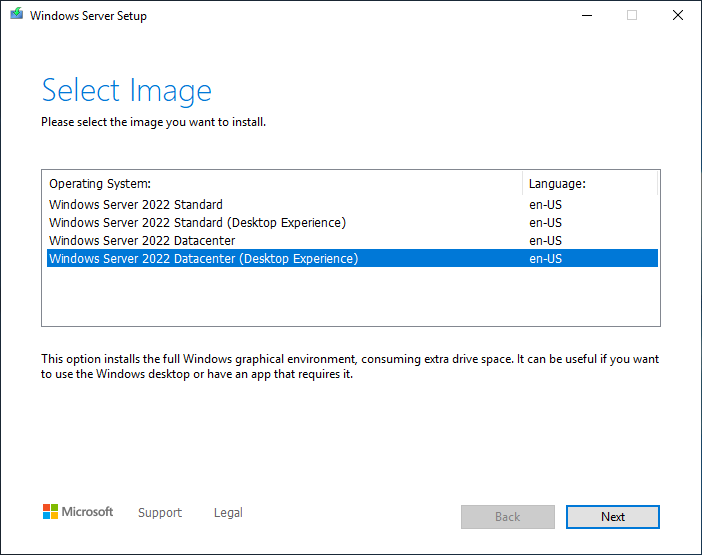
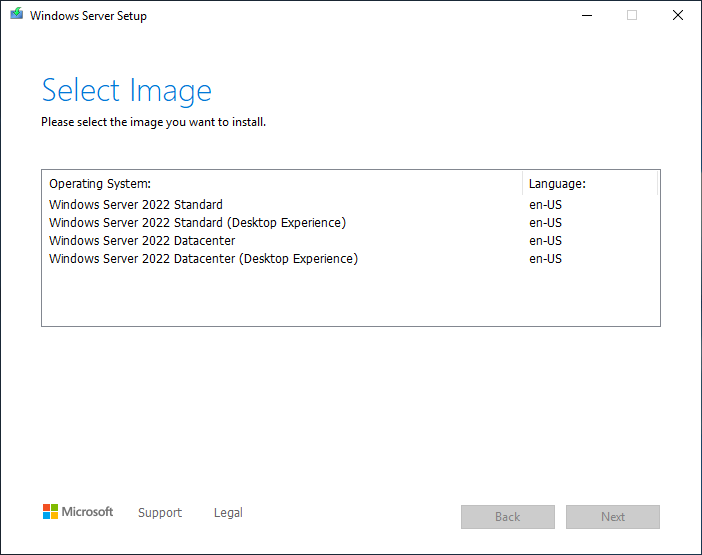
Updated the get started upgrade article set
Updated:
 - perform-in-place-upgrade.md update with version agnostic text and
   review feedback
 - upgrade-overview.md updated with version agnostic text and new table
 - get-started/toc.yml to remove legacy articles
 - Screenshot updated
 - index.yml updated the Upgrade landing card to reflect changes

Changed region(s): [[0.0598, 0.4288, 0.9573, 0.4901], [0.0598, 0.6432, 0.9573, 0.7045], [0.8077, 0.8883, 0.9274, 0.9802]]

diff --git a/WindowsServerDocs/get-started/upgrade-overview.md b/WindowsServerDocs/get-started/upgrade-overview.md
@@ -4,7 +4,7 @@ description: General Windows Server upgrade information, along with what to thin
 ms.topic: how-to
 author: RobHindman
 ms.author: robhind
-ms.date: 09/10/2019
+ms.date: 05/24/2022
 ---
 
 # Overview of Windows Server upgrades
@@ -14,7 +14,7 @@ The process of upgrading to a newer version of Windows Server can vary greatly, 
 - **Upgrade.** Also known as an "in-place upgrade". You move from an older version of the operating system to a newer version, while staying on the same physical hardware. **This is the method we will be covering in this section.**
 
     > [!Important]
-    > In-place upgrades might also be supported by public or private cloud companies; however, you must check with your cloud provider for the details. Additionally, you'll be unable to perform an in-place upgrade on any Windows Server configured to **Boot from VHD**. An In-Place Upgrade from Windows Storage Server Editions to Windows Server 2019 is not supported. You can perform either a **Migration** or **Installation** instead.
+    > In-place upgrades might also be supported by public or private cloud companies; however, you must check with your cloud provider for the details. Additionally, you'll be unable to perform an in-place upgrade on any Windows Server configured to **Boot from VHD**. An in-place upgrade from Windows Storage Server Editions is not supported. You can perform either a **Migration** or **Installation** instead.
 
 - **Installation.** Also known as a "clean installation". You move from an older version of the operating system to a newer version, deleting the older operating system.
 
@@ -22,16 +22,33 @@ The process of upgrading to a newer version of Windows Server can vary greatly, 
 
 - **Cluster OS Rolling Upgrade.** You upgrade the operating system of your cluster nodes without stopping the Hyper-V or the Scale-Out File Server workloads. This feature allows you to avoid downtime which could impact Service Level Agreements. For more information, see [Cluster operating system rolling upgrade](../failover-clustering/cluster-operating-system-rolling-upgrade.md)
 
-- **License conversion.** Convert a particular edition of the release to another edition of the same release in a single step with a simple command and the appropriate license key. We call this "license conversion". For example, if your server is running Windows Server 2016 Standard, you can convert it to Windows Server 2016 Datacenter.
+- **License conversion.** Convert a particular edition of the release to another edition of the same release in a single step with a simple command and the appropriate license key. We call this "license conversion". For example, if your server is running Standard edition, you can convert it to Datacenter.
 
 ## Which version of Windows Server should I upgrade to?
 
-We recommend upgrading to the latest version of Windows Server: Windows Server 2019. Running the latest version of Windows Server allows you to use the latest features – including the latest security features – and delivers the best performance.
+We recommend upgrading to the latest version of Windows Server. Running the latest version of Windows Server allows you to use the latest features – including the latest security features – and delivers the best performance.
 
-However, we realize that's not always possible. You can use the following diagram to figure out which Windows Server version you can upgrade to, based on the version you're currently on:
+> [!IMPORTANT]
+> You can upgrade to a newer version of Windows Server by up to two versions at a time. For example, Windows Server 2016 can be upgraded to Windows Server 2019 or Windows Server 2022.
 
-![Available in-place upgrade paths](media/upgrade-paths.png)
+In this table you can see the supported upgrade paths, based on the version you're currently on.
 
-Windows Server can typically be upgraded through at least one, and sometimes even two, versions. For example, Windows Server 2012 R2 and Windows Server 2016 can both be upgraded in-place to Windows Server 2019.
+| Upgrade from / to        | Windows   Server 2008 R2 | Windows   Server 2012 | Windows   Server 2012 R2 | Windows   Server 2016 | Windows   Server 2019 | Windows   Server 2022 |
+|--------------------------|--------------------------|-----------------------|--------------------------|-----------------------|-----------------------|-----------------------|
+| Windows   Server 2008    | Yes                      | Yes                   | -                        | -                     | -                     | -                     |
+| Windows   Server 2008 R2 | -                        | Yes                   | Yes                      | -                     | -                     | -                     |
+| Windows   Server 2012    | -                        | -                     | Yes                      | Yes                   | -                     | -                     |
+| Windows   Server 2012 R2 | -                        | -                     | -                        | Yes                   | Yes                   | -                     |
+| Windows   Server 2016    | -                        | -                     | -                        | -                     | Yes                   | Yes                   |
+| Windows   Server 2019    | -                        | -                     | -                        | -                     | -                     | Yes                   |
 
 You can also upgrade from an evaluation version of the operating system to a retail version, from an older retail version to a newer version, or, in some cases, from a volume-licensed edition of the operating system to an ordinary retail edition. For more information about upgrade options other than in-place upgrade, see [Upgrade and conversion options for Windows Server](../get-started/supported-upgrade-paths.md).
+
+## Next steps
+
+Now that you've ready to upgrade Windows Server, here are some articles that might help you get started:
+
+- [Install, upgrade, or migrate to Windows Server](install-upgrade-migrate.md)
+- [Upgrade and migrate roles and features in Windows Server](upgrade-migrate-roles-features.md)
+- [Upgrade and conversion options for Windows Server](upgrade-conversion-options.md)
+- [Perform an in-place upgrade of Windows Server](perform-in-place-upgrade.md)

diff --git a/WindowsServerDocs/get-started/perform-in-place-upgrade.md b/WindowsServerDocs/get-started/perform-in-place-upgrade.md
@@ -38,15 +38,20 @@ To collect your info:
 
 1. Next, enter **ipconfig /all** into the command prompt, then copy and paste the resulting configuration information into the same location you used in step 2.
 
-1. Open the Registry Editor, go to the **HKEY_LOCAL_MACHINE\SOFTWARE\Microsoft\Windows NT\CurrentVersion** key, and then copy and paste the Windows Server **BuildLabEx** and **EditionID** values into the same location you used in steps 2 and 3.
+1. Open an elevated PowerShell prompt, run the following command, and then copy and paste the **WindowsBuildLabEx** and **WindowsEditionID** values into the same location you used in steps 2 and 3.
 
-After you've collected all of your Windows Server-related information, we highly recommend that you backup your server operating system, apps, and virtual machines. You must also **Shut down**, **Quick migrate**, or **Live migrate** any virtual machines currently running on the server. You can't have any virtual machines running during the in-place upgrade.
+   ```powershell
+   Get-ComputerInfo -Property "WindowsProductName"
+   ```
+
+> [!TIP]
+> Get-ComputerInfo requires PowerShell 5.1 or later. If your Windows Server version doesn't include Powershell you can find this information in the registry. Open Registry Editor, go to the  **HKEY_LOCAL_MACHINE\SOFTWARE\Microsoft\Windows NT\CurrentVersion** key, and then copy and paste the Windows Server **BuildLabEx** and **EditionID** values.
+
+After you've collected all of your Windows Server-related information, we highly recommend that you backup your server operating system, apps, and virtual machines. You must also shut down, quick migrate, or live migrate any virtual machines currently running on the server. You can't have any virtual machines running during the in-place upgrade.
 
 ## Perform the upgrade
 
 To perform the in-place upgrade:
-
-1. Open the Registry Editor, go to the **HKEY_LOCAL_MACHINE\SOFTWARE\Microsoft\Windows NT\CurrentVersion** key, and confirm the **ProductName** is Windows Server 2016 or later.
 
 1. Using File Explorer, navigate to the Windows Server Setup media. Then select **setup.exe**. For example, if you are using removal media this might be D:\setup.exe.
 
@@ -71,7 +76,7 @@ To perform the in-place upgrade:
 
     ![Screen to choose which Windows Server edition to install](media/upgrade/select-os-edition.png)
 
-1. Select **Accept** to agree to the terms of your licensing agreement. The agreement may vary based on your distribution channel (such as a Commercial Licensing program, Retail, OEM, and so on.).
+1. To upgrade, you must accept the applicable notices and license terms by selecting **Accept**. The agreement may vary based on your distribution channel (such as a Commercial Licensing program, Retail, OEM, and so on.).
 
     ![Screen to accept your license agreement](media/upgrade/license-terms.png)
 
@@ -93,7 +98,11 @@ After the upgrade to Windows Server is done, you must make sure the upgrade was 
 
 To make sure your upgrade was successful:
 
-1. Open the Registry Editor, then go to the **HKEY_LOCAL_MACHINE\SOFTWARE\Microsoft\Windows NT\CurrentVersion** key and view the **ProductName** value. Verify the version and edition match the media and values you selected during setup. For example, if you installed Windows Server 2022 Datacenter, you should see "Windows Server 2022 Datacenter" in the value.
+1. Open an elevated PowerShell prompt, run the following command to verify the version and edition matches the media and values you selected during setup. For example, if you installed Windows Server 2022 Datacenter, you should see "Windows Server 2022 Datacenter" in the output.
+
+   ```powershell
+   Get-ComputerInfo -Property "WindowsProductName"
+   ```
 
 1. Make sure all of your applications are running and that your client connections to the applications are successful.
 
@@ -101,7 +110,7 @@ If your machine isn't working as expected after the upgrade, copy and zip the **
 
 ## Next steps
 
-Now that you've installed Windows Server 2022, here are some articles that might help you as you use the new version:
+Now that you've upgraded Windows Server, here are some articles that might help you as you use the new version:
 
 - [Install or Uninstall Roles, Role Services, or Features](../administration/server-manager/install-or-uninstall-roles-role-services-or-features.md)
 - [Windows Server management overview](../administration/overview.md)
